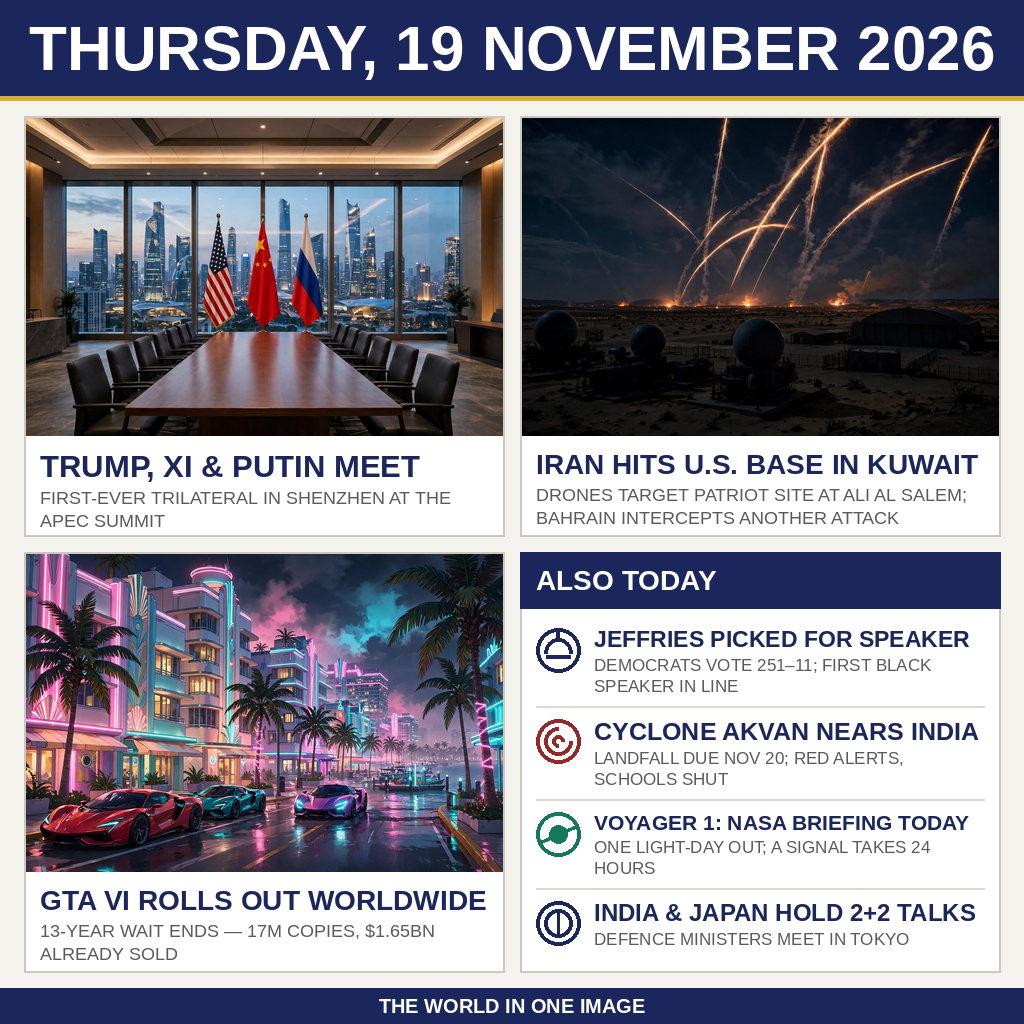
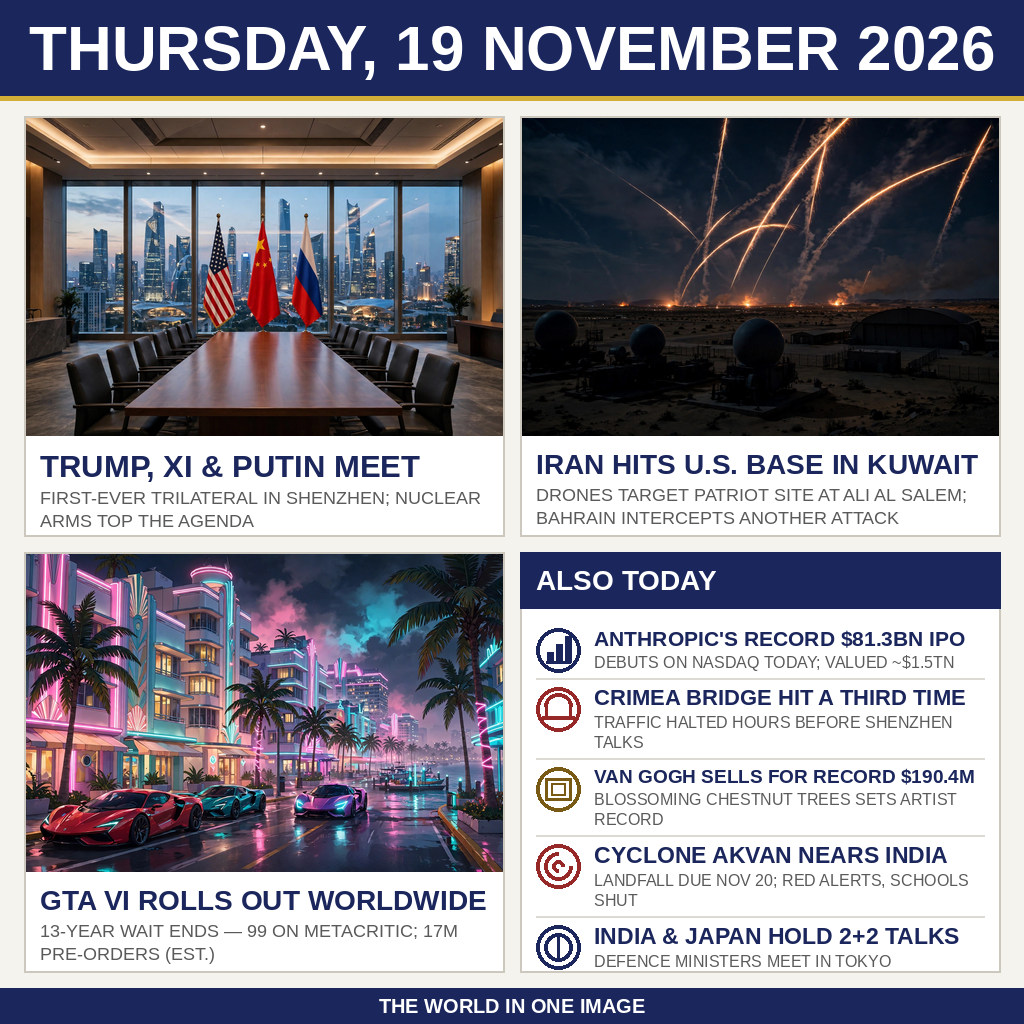
v2: broader verified coverage - Anthropic IPO, Crimea Bridge, Van Gogh; drop Jeffries/Voyager (wrong-day items); GTA numbers marked as estimates

diff --git a/build_entry.py b/build_entry.py
@@ -7,14 +7,23 @@ the image is drawn here in Liberation Sans; the photos carry no text.
 
 Stories, all verified against reporting of 19 November 2026:
   1. Trump, Xi & Putin meet in Shenzhen - first-ever trilateral, APEC
-     (Yonhap, 19 Nov; Reuters, 18 Nov; China Foreign Ministry).
+     (Reuters, 19 Nov; White House; China Foreign Ministry). Nuclear
+     arms top the agenda; no deal expected.
   2. Iran hits a U.S. base in Kuwait - drones target the Patriot site at
-     Ali Al Salem; Bahrain intercepts another attack (Reuters, 19 Nov).
+     Ali Al Salem; Bahrain intercepts another attack (Reuters/BBC, 19 Nov).
   3. GTA VI rolls out worldwide - midnight local launches from New
-     Zealand; 17m+ copies, $1.65bn pre-release sales (Reuters, 19 Nov).
-Strip: Jeffries picked as Speaker nominee 251-11; Cyclone Akvan nears
-India (landfall due 20 Nov); NASA briefs on Voyager 1's one-light-day
-milestone today; India and Japan hold 2+2 defence talks in Tokyo.
+     Zealand; Metacritic 99; ~17m pre-orders, $1.65bn (Sensor Tower
+     estimate, 18 Nov - NOT official Take-Two figures).
+Strip (all first reported 19 Nov, all verified): Anthropic prices a
+record $81.3bn IPO, largest ever, trading starts today on Nasdaq
+(Reuters, 19 Nov); Crimea Bridge hit a third time this week, traffic
+halted hours before Putin's Shenzhen talks (Reuters, 19 Nov); Van
+Gogh's Blossoming Chestnut Trees sells for a record $190.4m at
+Sotheby's (19 Nov); Cyclone Akvan nears India, landfall due Nov 20
+(IMD); India and Japan hold 2+2 defence talks in Tokyo (PIB/PTI).
+Dropped from v1: Jeffries Speaker nomination (that vote was 18 Nov,
+not 19 Nov) and the Voyager 1 item (milestone was 18 Nov; no verified
+NASA briefing today).
 """
 
 import os
@@ -111,20 +120,43 @@ def ring_icon(draw, cx, cy, r, colour, kind):
         draw.ellipse([cx - r + 8, cy - r + 8, cx + r - 8, cy + r - 8],
                      outline=colour, width=4)
         draw.line([cx, cy - r + 8, cx, cy + r - 8], fill=colour, width=3)
+    elif kind == "chart":
+        # three ascending bars
+        draw.line([cx - 12, cy + 12, cx + 12, cy + 12],
+                  fill=colour, width=3)
+        for bx, bh in ((-11, 10), (-2, 18), (7, 26)):
+            draw.rectangle([cx + bx, cy + 12 - bh, cx + bx + 6, cy + 12],
+                           fill=colour)
+    elif kind == "bridge":
+        # deck line + arc span
+        draw.line([cx - r + 6, cy + 8, cx + r - 6, cy + 8],
+                  fill=colour, width=4)
+        draw.arc([cx - r + 8, cy - r + 6, cx + r - 8, cy + 10],
+                 start=180, end=360, fill=colour, width=4)
+        draw.line([cx - r + 10, cy - 2, cx - r + 10, cy + 8],
+                  fill=colour, width=3)
+        draw.line([cx + r - 10, cy - 2, cx + r - 10, cy + 8],
+                  fill=colour, width=3)
+    elif kind == "frame":
+        # picture frame: outer rect + inner mat line
+        draw.rectangle([cx - r + 9, cy - r + 11, cx + r - 9, cy + r - 11],
+                       outline=colour, width=3)
+        draw.rectangle([cx - r + 15, cy - r + 16, cx + r - 15, cy + r - 16],
+                       outline=colour, width=2)
 
 
 def strip_item(draw, x, y, w, icon, colour, kind, head, sub):
     ring_icon(draw, x + 26, y + 26, 22, colour, kind)
     tx = x + 62
     max_w = w - 62 - 8
-    hf = fit_font(draw, head, FONT_BOLD, 25, max_w)
+    hf = fit_font(draw, head, FONT_BOLD, 23, max_w)
     draw.text((tx, y + 2), head, font=hf, fill=INK)
-    sf = font(FONT_REG, 17)
+    sf = font(FONT_REG, 16)
     lines = wrap(draw, sub, sf, max_w)
     ty = y + 2 + hf.size + 6
     for line in lines:
         draw.text((tx, ty), line, font=sf, fill=SUB_INK)
-        ty += 21
+        ty += 20
     return ty
 
 
@@ -157,7 +189,7 @@ def main():
     # Top row: Shenzhen trilateral | Iran hits Kuwait base.
     photo_panel(canvas, draw, summit, (24, 116, 480, 420),
                 "TRUMP, XI & PUTIN MEET",
-                "FIRST-EVER TRILATERAL IN SHENZHEN AT THE APEC SUMMIT")
+                "FIRST-EVER TRILATERAL IN SHENZHEN; NUCLEAR ARMS TOP THE AGENDA")
     photo_panel(canvas, draw, kuwait, (520, 116, 480, 420),
                 "IRAN HITS U.S. BASE IN KUWAIT",
                 "DRONES TARGET PATRIOT SITE AT ALI AL SALEM; BAHRAIN INTERCEPTS ANOTHER ATTACK")
@@ -165,7 +197,7 @@ def main():
     # Bottom-left: GTA VI rollout.
     photo_panel(canvas, draw, vice, (24, 552, 480, 420),
                 "GTA VI ROLLS OUT WORLDWIDE",
-                "13-YEAR WAIT ENDS \u2014 17M COPIES, $1.65BN ALREADY SOLD")
+                "13-YEAR WAIT ENDS \u2014 99 ON METACRITIC; 17M PRE-ORDERS (EST.)")
 
     # Bottom-right: also today.
     x, y, w, h = 520, 552, 480, 420
@@ -176,12 +208,14 @@ def main():
     draw.text((x + 16, y + 12), "ALSO TODAY", font=hf, fill=WHITE)
 
     items = [
-        ("capitol", NAVY, "JEFFRIES PICKED FOR SPEAKER",
-         "DEMOCRATS VOTE 251\u201311; FIRST BLACK SPEAKER IN LINE"),
+        ("chart", NAVY, "ANTHROPIC'S RECORD $81.3BN IPO",
+         "DEBUTS ON NASDAQ TODAY; VALUED ~$1.5TN"),
+        ("bridge", (150, 40, 40), "CRIMEA BRIDGE HIT A THIRD TIME",
+         "TRAFFIC HALTED HOURS BEFORE SHENZHEN TALKS"),
+        ("frame", (120, 90, 20), "VAN GOGH SELLS FOR RECORD $190.4M",
+         "BLOSSOMING CHESTNUT TREES SETS ARTIST RECORD"),
         ("cyclone", (150, 40, 40), "CYCLONE AKVAN NEARS INDIA",
          "LANDFALL DUE NOV 20; RED ALERTS, SCHOOLS SHUT"),
-        ("planet", (20, 120, 90), "VOYAGER 1: NASA BRIEFING TODAY",
-         "ONE LIGHT-DAY OUT; A SIGNAL TAKES 24 HOURS"),
         ("globe", NAVY, "INDIA & JAPAN HOLD 2+2 TALKS",
          "DEFENCE MINISTERS MEET IN TOKYO"),
     ]
@@ -189,9 +223,9 @@ def main():
     for i, (kind, colour, head, sub) in enumerate(items):
         end = strip_item(draw, x + 12, iy, w - 24, None, colour, kind,
                          head, sub)
-        iy = end + 18
+        iy = end + 10
         if i < len(items) - 1:
-            draw.line([x + 16, iy - 9, x + w - 16, iy - 9],
+            draw.line([x + 16, iy - 5, x + w - 16, iy - 5],
                       fill=(220, 218, 210), width=2)
 
     # Footer.

diff --git a/README.md b/README.md
@@ -4,9 +4,9 @@
 [![rank](https://make.fun/badge/news-image-20261119/kingcritket/news-image-20261119-bot/rank.svg)](https://make.fun/bounty/news-image-20261119/leaderboard?utm_source=github&utm_medium=readme&utm_campaign=news-image-20261119)
 [![reward](https://make.fun/badge/news-image-20261119/kingcritket/news-image-20261119-bot/reward.svg)](https://make.fun/bounty/news-image-20261119?utm_source=github&utm_medium=readme&utm_campaign=news-image-20261119)
 
-One image summing up the world news of Thursday 19 November 2026: Trump, Xi and Putin meet in Shenzhen in the first-ever trilateral at the APEC summit; Iran hits a U.S. base in Kuwait, targeting the Patriot site at Ali Al Salem, as Bahrain intercepts another attack; and Grand Theft Auto VI rolls out worldwide after a 13-year wait. Also today: Democrats pick Hakeem Jeffries as Speaker nominee (251–11), Cyclone Akvan nears India's east coast with landfall due 20 November, NASA briefs on Voyager 1's one-light-day milestone, and India and Japan hold 2+2 defence talks in Tokyo.
+One image summing up the world news of Thursday 19 November 2026: Trump, Xi and Putin meet in Shenzhen in the first-ever trilateral at the APEC summit, with nuclear arms at the top of the agenda; Iran hits a U.S. base in Kuwait, targeting the Patriot site at Ali Al Salem, as Bahrain intercepts another attack; and Grand Theft Auto VI rolls out worldwide after a 13-year wait, scoring 99 on Metacritic. Also today: Anthropic prices a record $81.3bn IPO and debuts on the Nasdaq, the Crimea Bridge is hit a third time this week, a Van Gogh sells for a record $190.4m at Sotheby's, Cyclone Akvan nears India's east coast with landfall due 20 November, and India and Japan hold 2+2 defence talks in Tokyo.
 
-All stories verified against reporting from 19 November 2026 (Yonhap, Reuters, AP, NASA JPL, IMD, Axios). Three AI-generated scene photos with no text baked in, composited with PIL; every word on the image is drawn by PIL in Liberation Sans Bold. The image is built by `build_entry.py` and shipped as `entry.png`; `main.py` copies it to the output directory.
+All stories verified against reporting from 19 November 2026 (Reuters, BBC, AP, IMD, PIB). Three AI-generated scene photos with no text baked in, composited with PIL; every word on the image is drawn by PIL in Liberation Sans Bold. The image is built by `build_entry.py` and shipped as `entry.png`; `main.py` copies it to the output directory.
 
 ## Run it
 
